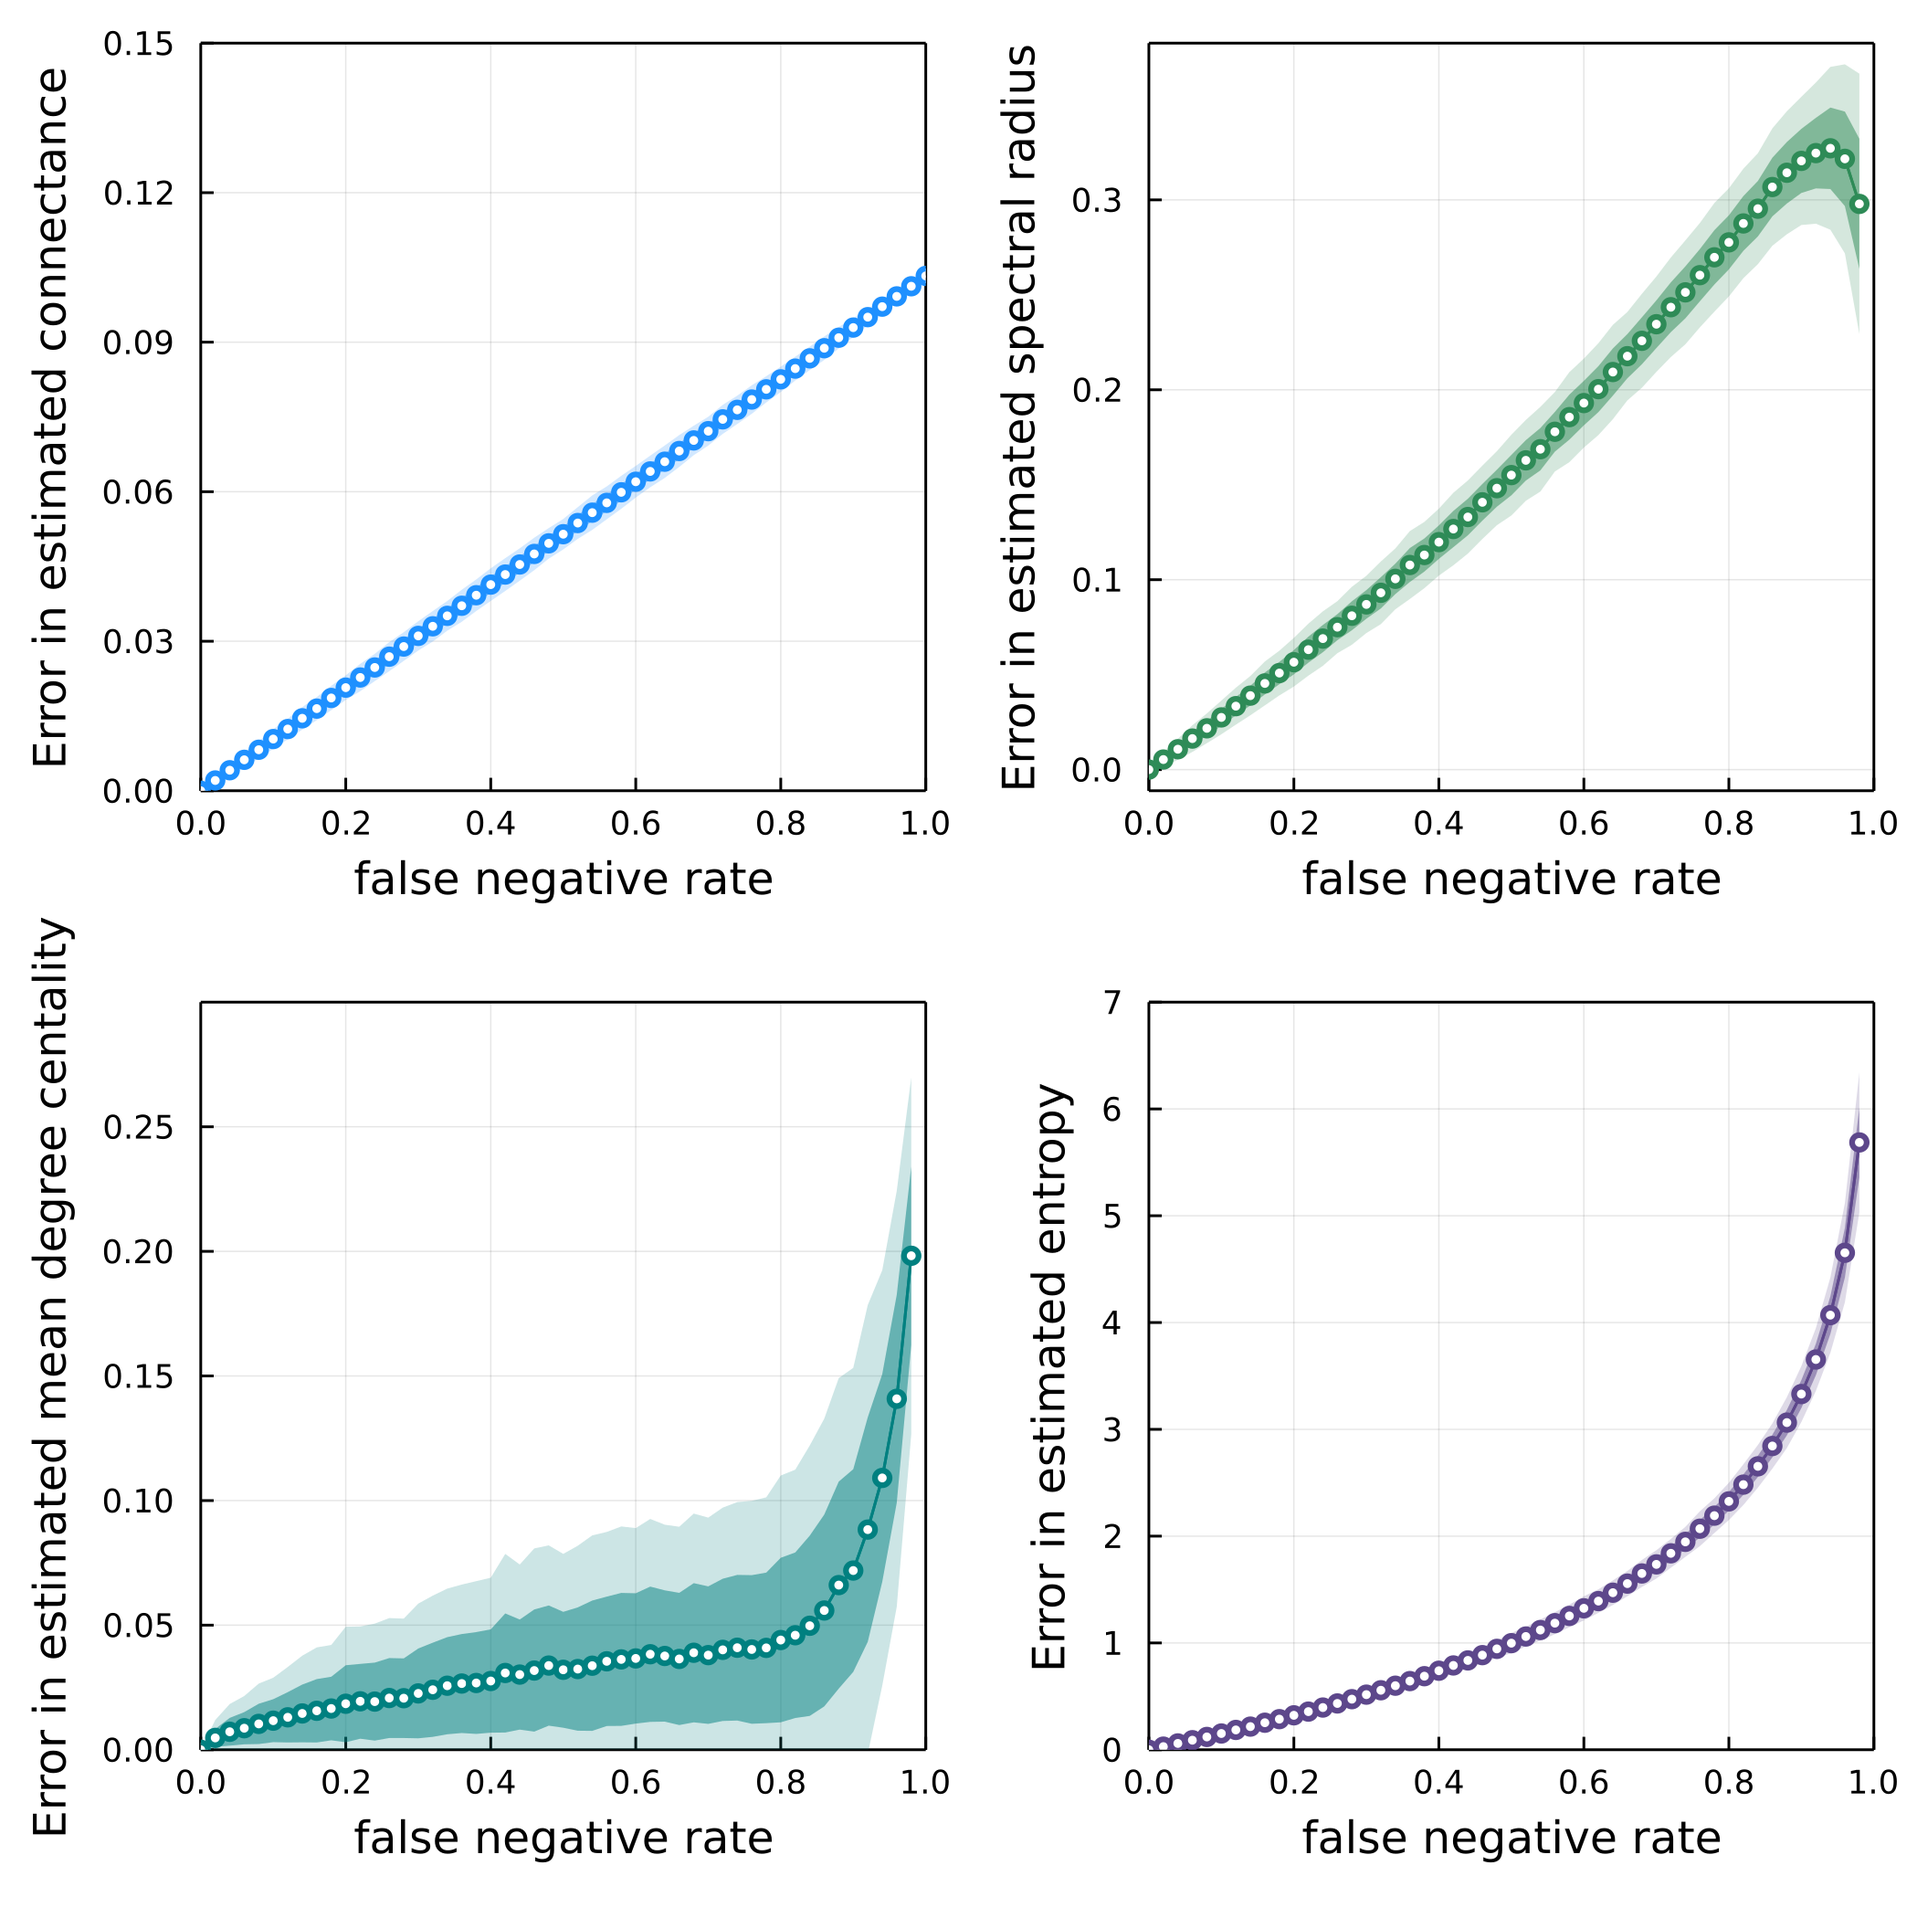
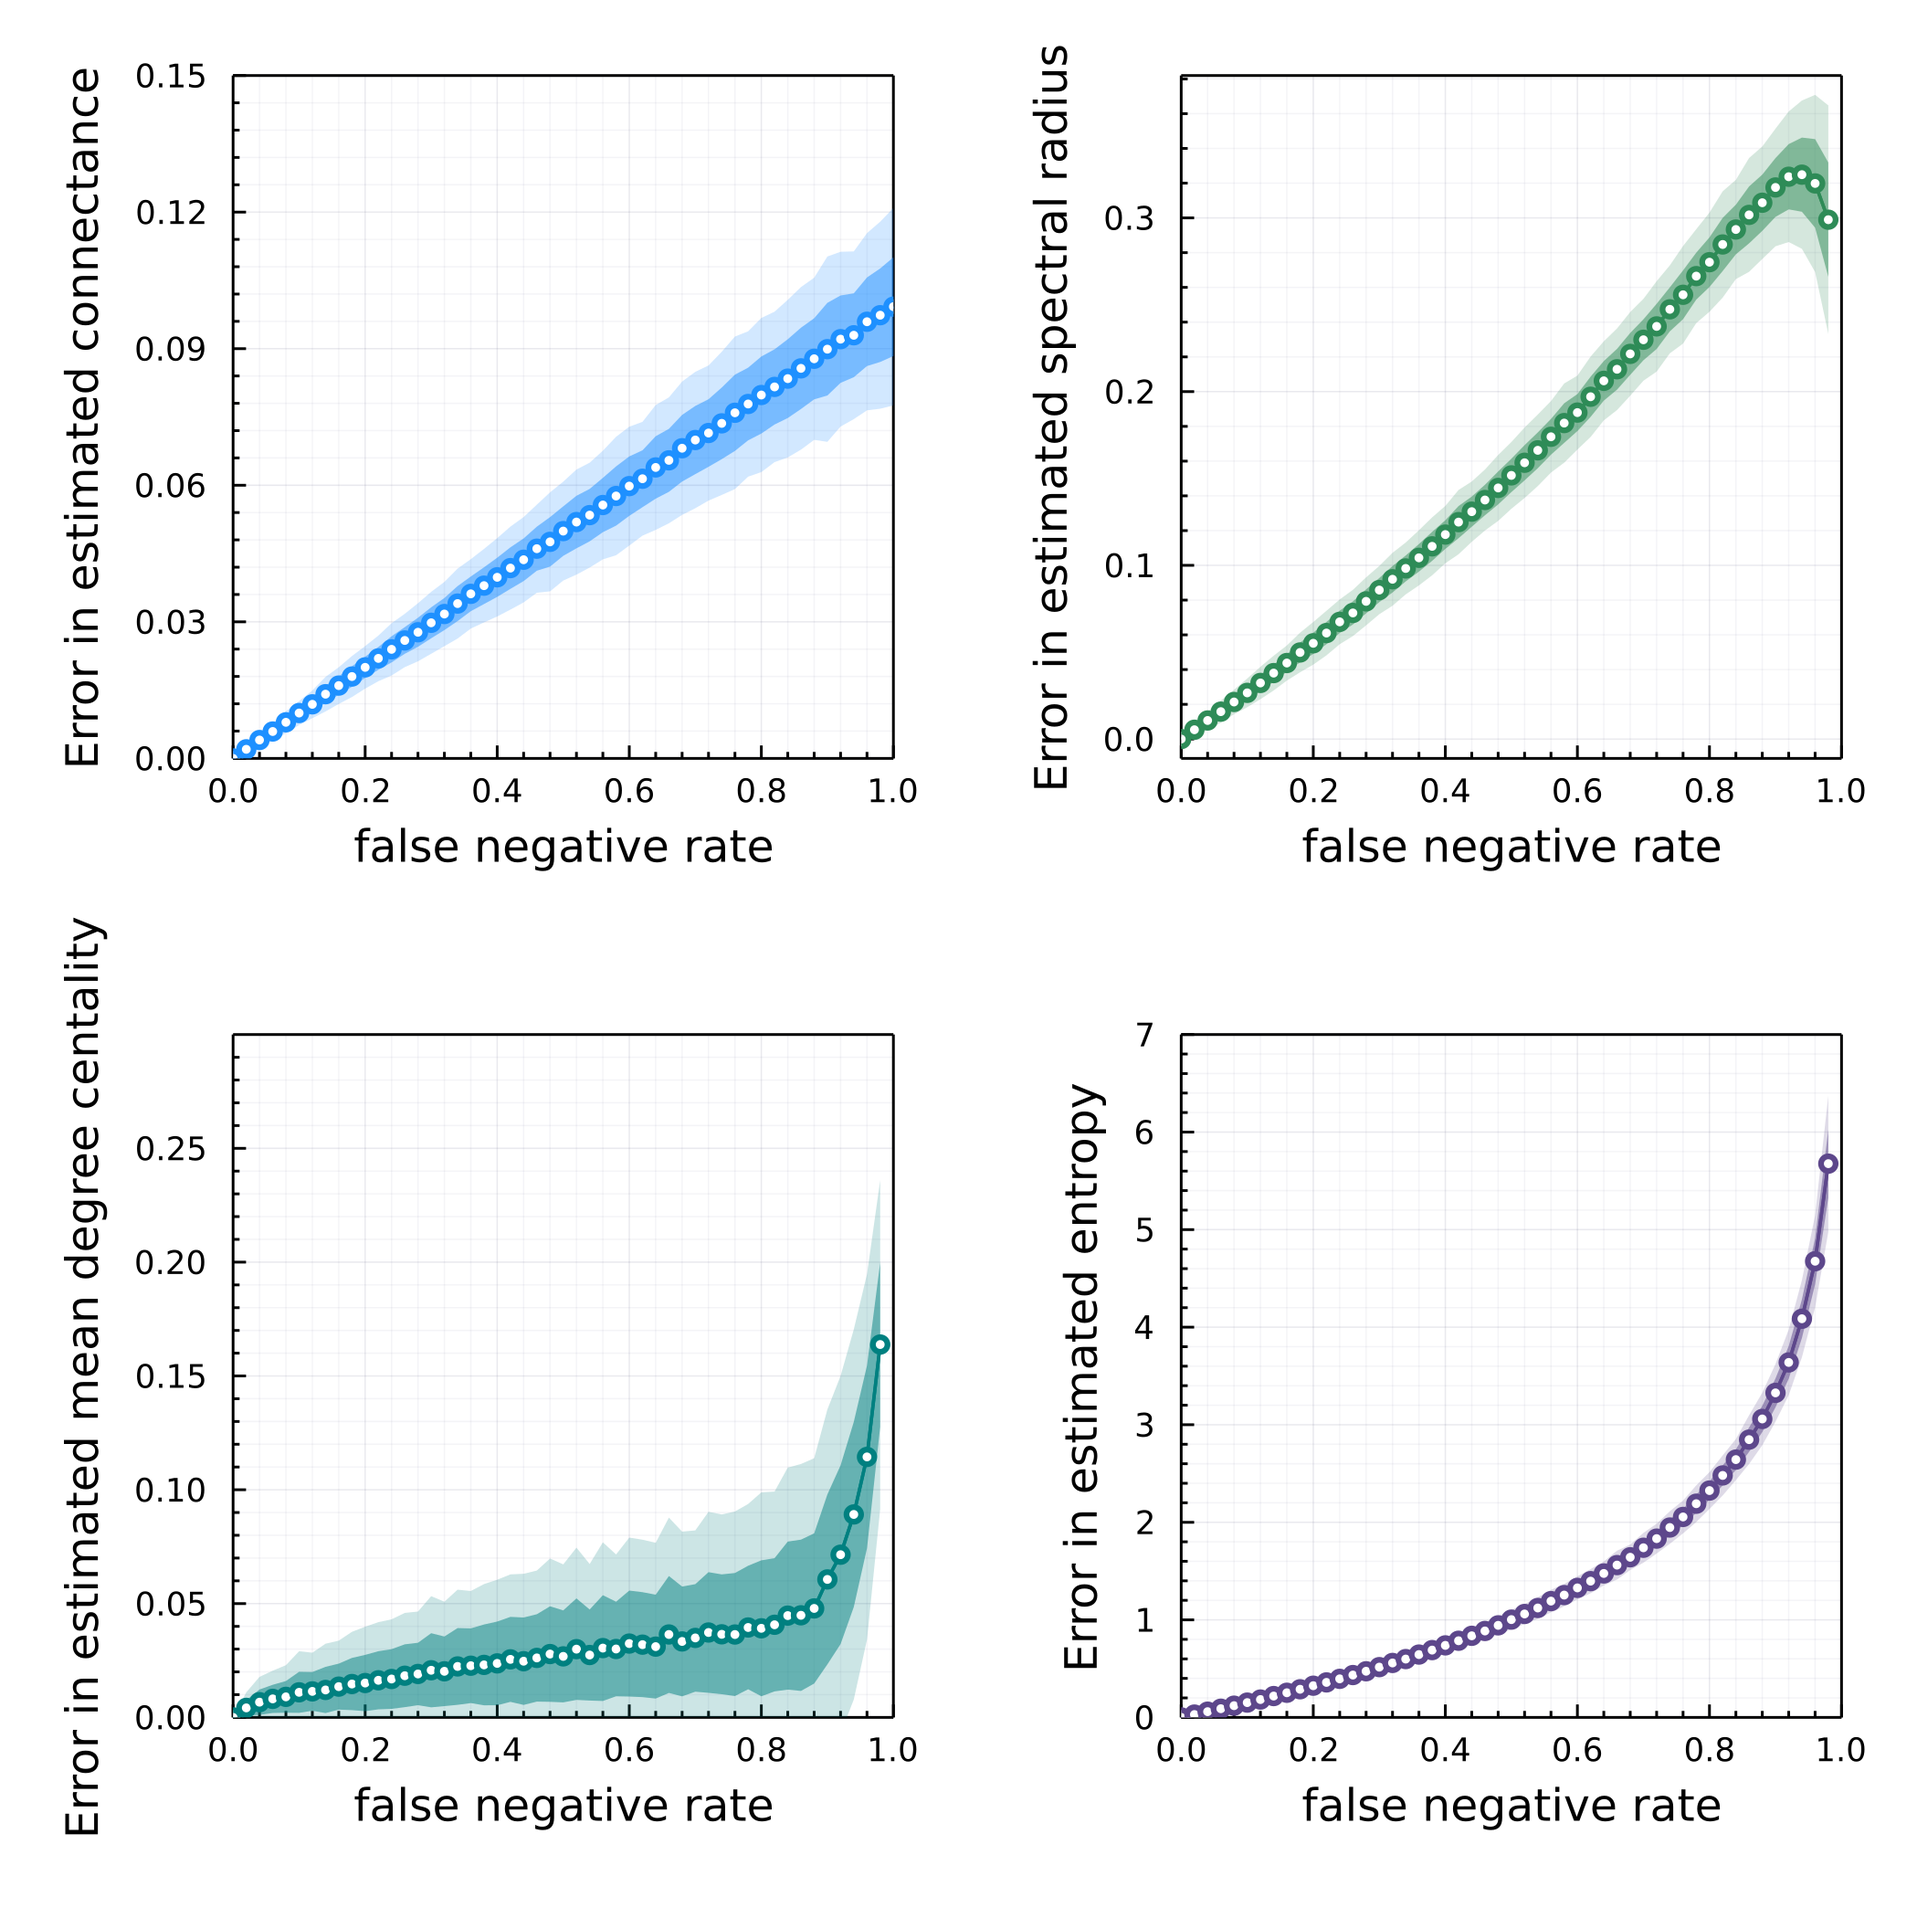
update

diff --git a/manuscript.md b/manuscript.md
@@ -8,13 +8,13 @@ bibliography: [references.bib]
 Ecological interactions are hard to sample [@Jordano2016SamNet]. Still,
 collecting data about species interactions is imperative to measure and mitigate
 the effects of human activity on Earth's biodiversity [@Jordano2016ChaEco], and
-to predict potential spillover of zoonotic diseases [@cite]. Biodiversity data
-has become increasingly available: remote sensing has enabled data on spatial
-scales previously unsampleable, and cameras/etc. Yet sampling of ecological
-interactions detection often requires human sampling as coexistance is not
-indicative of interaction [@cite]. This induces constraints on sampling of
-interactions based on the spatial and temporal scales feasible to human
-sampling.
+to predict potential spillover of zoonotic diseases [@cite]. Over the past
+decade biodiversity data has become increasingly available: remote sensing has
+enabled data on spatial scales previously unsampleable, and cameras/etc. Yet
+sampling of ecological interactions detection often requires human sampling as
+coexistance is not indicative of interaction [@cite]. This induces constraints
+on sampling of interactions based on the spatial and temporal scales feasible to
+human sampling.
 
 These sampling constraints go on to bias species interaction data: we are more
 likely to observe interactions between species with high relative abundance
@@ -43,7 +43,7 @@ exist---measured by $p_{tn}$---and our sampling effort $N$.
 how many times it has been sampled as a non-interaction. Another thing is true,
 which is that this function will never reach 1. So many assumptions here about
 probability. It's the birthday paradox, but backwards.
-](./figures/bernoulli.png){#fig:bernoulli}
+](./figures/negative_binom.png){#fig:bernoulli}
 
 
 
@@ -70,7 +70,7 @@ indicative of sampling effort.
 
 
 ![False negative rate as a function of sampling effort and network size, computed
-using the method described above. Left panel:  in blue. Right empirical food webs from Mangal database in teal.](./figures/samplingdist.png){#fig:samplingeffort}
+using the method described above. Left panel:  in blue. Right empirical food webs from Mangal database in teal. The outlier on panel B is a 714 species network. ](./figures/samplingdist.png){#fig:samplingeffort}
 
 
 Caveats: this doesn't consider variation in abundance in space and time which is
